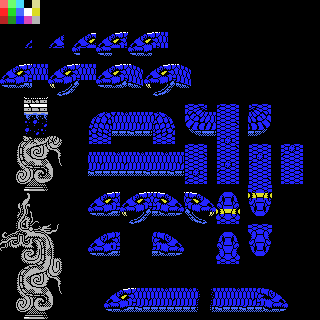
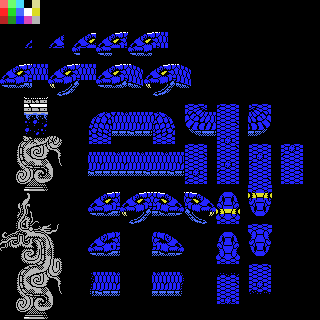
gfx for boss 7 phase 4

Changed region(s): [[0.2812, 0.8438, 0.625, 0.9688], [0.6562, 0.8125, 0.9062, 0.9688]]

diff --git a/java/src/xspelunker2/Bosses.java b/java/src/xspelunker2/Bosses.java
@@ -99,22 +99,22 @@ public class Bosses {
     
     public static void main(String args[]) throws Exception
     {
-//        boss1Tiles();
-//        boss1Sprites();
-//
-//        boss2Tiles();
-//        boss2Sprites();
-//
-//        boss3Tiles();
-//        boss3Sprites();
-//
-//        Boss4.main(args);
-//        
-//        boss5Tiles();
-//        boss5Sprites();
-//
-//        boss6Tiles();
-//        boss6Sprites();
+        boss1Tiles();
+        boss1Sprites();
+
+        boss2Tiles();
+        boss2Sprites();
+
+        boss3Tiles();
+        boss3Sprites();
+
+        Boss4.main(args);
+        
+        boss5Tiles();
+        boss5Sprites();
+
+        boss6Tiles();
+        boss6Sprites();
 
         boss7Tiles();
         boss7Sprites();
@@ -943,7 +943,7 @@ public class Bosses {
             GenerateTiles.extractTiles("data/boss7-tiles-phase2.png", "src/autogenerated/boss7-tiles-phase2", 24, 128);
         }
         
-        // Phase 3:
+        // Phase 3/4:
         {
             String bossBaseTiles = "data/boss7-base-tiles.png";
             String boss7Tiles = "data/boss7.png";
@@ -962,9 +962,9 @@ public class Bosses {
                     collision[i] = 2;
                 }
             }            
-            // phase 2 snake tiles:
+            // phase 3/4 snake tiles:
             nameTableBoxes.clear();
-            nameTableBoxes.add(new int[]{88, 104, 320, 264});
+            nameTableBoxes.add(new int[]{88, 104, 320, 304});
             List<int[][]> nametables_phase2 = addBossTilesInGapsForBoxes(nameTableBoxes, baseImage, boss7Tiles, availableTiles, collision, false, false);
             
             // final broken statue:
@@ -977,6 +977,12 @@ public class Bosses {
             addNameTable(nameTable, 8, 15, 12, 20, nameTableData_snake);  // dead head right
             addNameTable(nameTable, 16, 15, 20, 20, nameTableData_snake);  // dead head up
             addNameTable(nameTable, 20, 15, 24, 20, nameTableData_snake);  // dead head down
+            
+            // broken midsection:
+            addNameTable(nameTable, 0, 20, 4, 25, nameTableData_snake);  // left
+            addNameTable(nameTable, 8, 20, 12, 25, nameTableData_snake);  // right
+            addNameTable(nameTable, 16, 20, 20, 25, nameTableData_snake);  // up
+            addNameTable(nameTable, 20, 20, 24, 25, nameTableData_snake);  // down
             
             for(int i = 0;i<16;i++) {
                 String line = "    db ";
